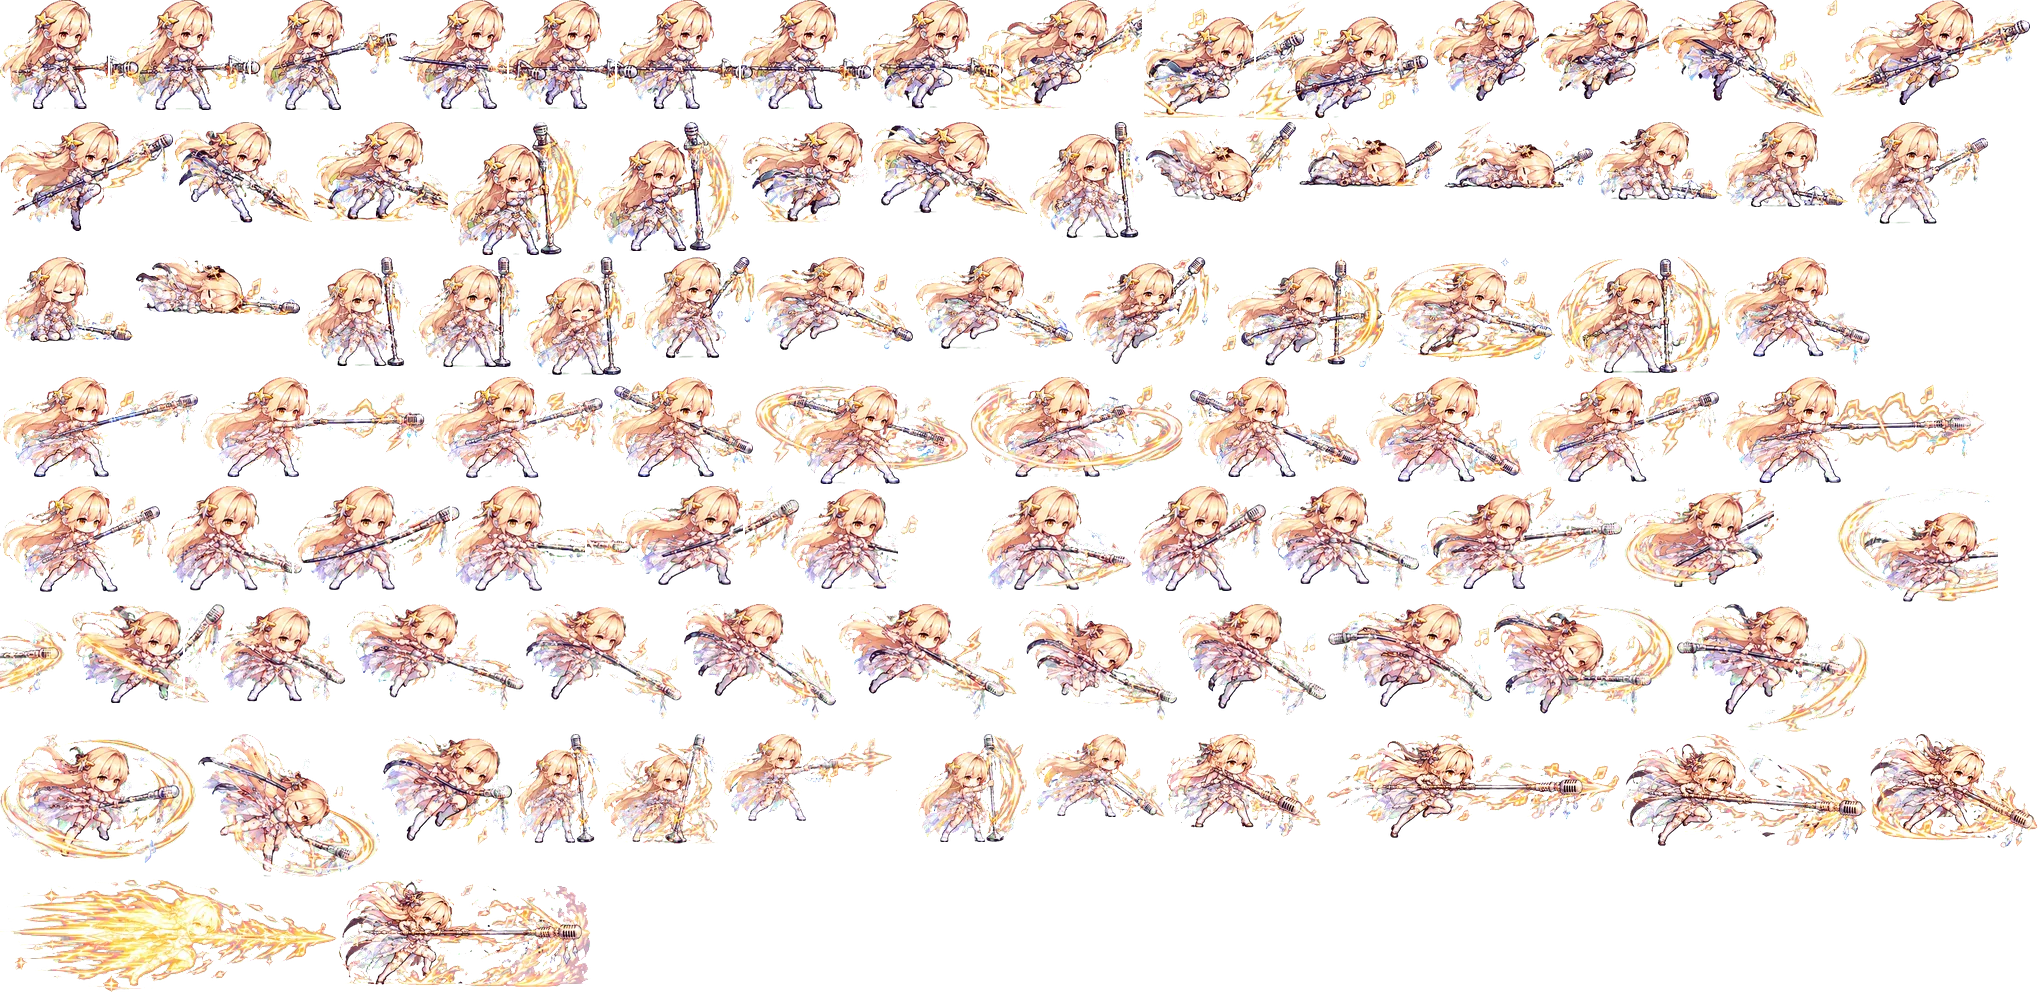
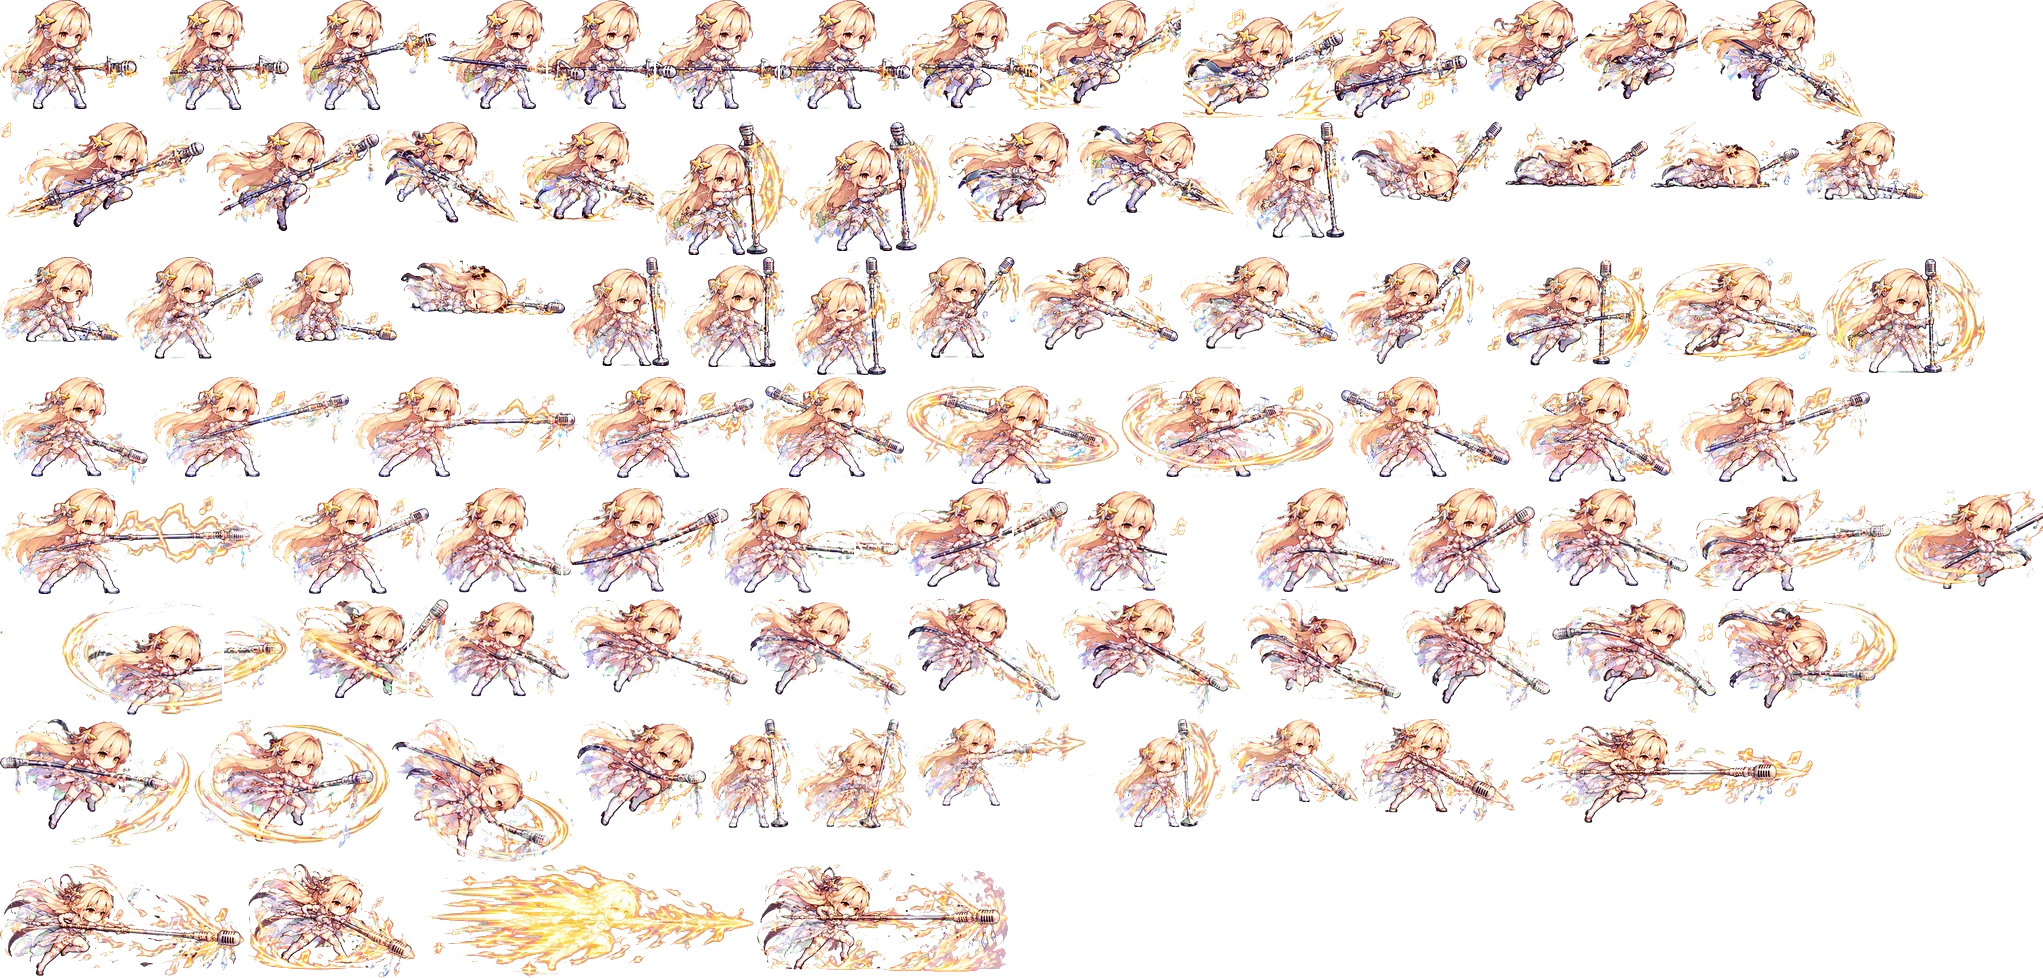
격투: 아이돌 제나 서 있을 때 마이크가 잘리던 것 — 옆 그림 마이크와 붙은 덩어리를 칸 경계 대신 다각형(own)으로 나눔

diff --git a/web/scripts/fight-atlas-v2.py b/web/scripts/fight-atlas-v2.py
@@ -21,7 +21,7 @@ import sys
 from pathlib import Path
 
 import numpy as np
-from PIL import Image
+from PIL import Image, ImageDraw
 from scipy import ndimage
 
 ROOT = Path(__file__).resolve().parent.parent
@@ -100,6 +100,12 @@ def shrink_front(p: np.ndarray, cut: float, k: float) -> np.ndarray:
     return out[:, : xs.max() + 1].copy()
 
 
+def _poly_mask(shape, poly) -> np.ndarray:
+    img = Image.new("1", (shape[1], shape[0]), 0)
+    ImageDraw.Draw(img).polygon([tuple(p) for p in poly], fill=1)
+    return np.asarray(img, bool)
+
+
 def grid_frames(rgba: np.ndarray, grid: list):
     """칸을 손으로 정한 시트: grid = [{"y": [y0, y1], "x": [x0, 자를 곳..., x끝]}, ...] (줄마다)
     덩어리가 절반 넘게 그 칸 안에 있으면 통째로 그 프레임 (칸 경계를 넘는 발 · 귀 · 채찍 끝도 살림),
@@ -126,6 +132,15 @@ def grid_frames(rgba: np.ndarray, grid: list):
             m = np.isin(lab, full)
             pm = np.zeros_like(m)
             pm[y0:y1, x0:x1] = np.isin(cell, part)
+            if "own" in row:
+                # 옆 칸까지 붙은 덩어리(옆 그림 마이크 끝이 몸에 닿는 등)는 곧은 칸 경계 대신 own 다각형으로 나눔:
+                # own = [[칸, [[x, y], ...]], ...] — 다각형 안은 그 칸 몫 (다른 칸에선 뺌)
+                for oc, poly in row["own"]:
+                    pg = _poly_mask(lab.shape, poly)
+                    if oc == len(frs):
+                        pm |= pg & np.isin(lab, part)
+                    else:
+                        pm &= ~pg
             m |= pm
             frs.append({"mask": m})
         out.append(frs)
